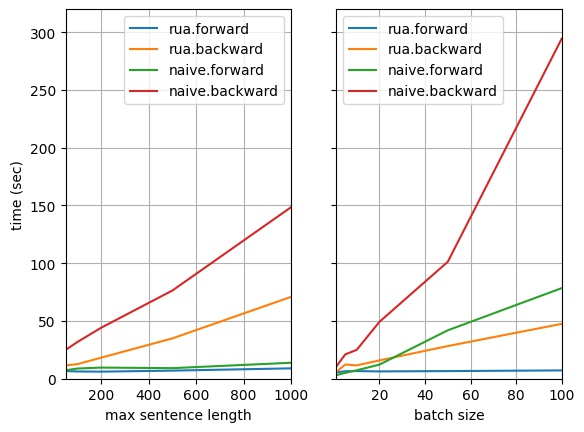
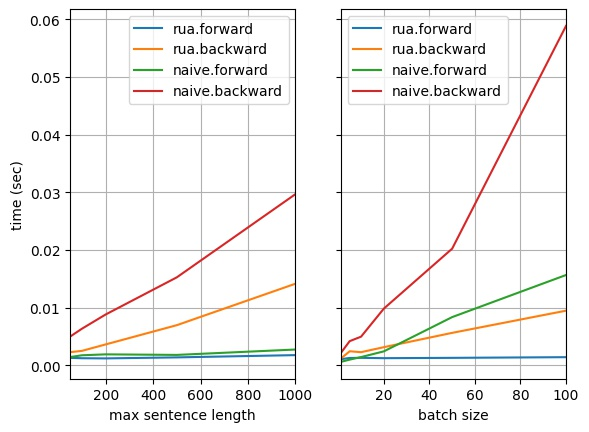
Doc: Update reverse_pack.jpg

diff --git a/benchmark/reverse_packed_sequence.py b/benchmark/reverse_packed_sequence.py
@@ -3,6 +3,7 @@ from tqdm import tqdm
 
 from benchmark.naive_indexing import naive_reverse_packed_sequence
 from benchmark.utils import Timer, gen_data
+import numpy as np
 from torchrua.indexing import reverse_packed_sequence
 
 
@@ -46,12 +47,13 @@ def reverse_pack_fn(num_epoch: int = 5000, batch_size: int = 32,
     print(f'naive.seconds => {naive_forward_timer.seconds + naive_backward_timer.seconds:.4f} '
           f'({naive_forward_timer.seconds:.4f}, {naive_backward_timer.seconds:.4f})')
 
+
 # def data1():
-#     rua_f = [6.6274, 6.2852, 6.1364, 7.0133, 8.9791]
-#     rua_b = [11.5218, 12.6473, 18.2495, 34.9357, 70.8818]
+#     rua_f = np.array([6.6274, 6.2852, 6.1364, 7.0133, 8.9791]) / 5000
+#     rua_b = np.array([11.5218, 12.6473, 18.2495, 34.9357, 70.8818]) / 5000
 #
-#     naive_f = [7.2876, 8.8388, 9.6415, 9.1631, 13.8260, ]
-#     naive_b = [24.9788, 31.8480, 44.1881, 76.4066, 148.5334]
+#     naive_f = np.array([7.2876, 8.8388, 9.6415, 9.1631, 13.8260]) / 5000
+#     naive_b = np.array([24.9788, 31.8480, 44.1881, 76.4066, 148.5334]) / 5000
 #
 #     x = [50, 100, 200, 500, 1000]
 #
@@ -59,11 +61,11 @@ def reverse_pack_fn(num_epoch: int = 5000, batch_size: int = 32,
 #
 #
 # def data2():
-#     rua_f = [5.4406, 6.5040, 6.6274, 6.3301, 6.6105, 7.1985]
-#     rua_b = [5.8177, 12.3177, 11.5218, 15.8664, 28.2674, 47.4997]
+#     rua_f = np.array([5.4406, 6.5040, 6.6274, 6.3301, 6.6105, 7.1985]) / 5000
+#     rua_b = np.array([5.8177, 12.3177, 11.5218, 15.8664, 28.2674, 47.4997]) / 5000
 #
-#     naive_f = [3.0818, 5.0671, 7.2876, 12.2371, 41.9305, 78.4146]
-#     naive_b = [10.5153, 21.0931, 24.9788, 49.2902, 101.2398, 294.3232]
+#     naive_f = np.array([3.0818, 5.0671, 7.2876, 12.2371, 41.9305, 78.4146]) / 5000
+#     naive_b = np.array([10.5153, 21.0931, 24.9788, 49.2902, 101.2398, 294.3232]) / 5000
 #
 #     x = [1, 5, 10, 20, 50, 100]
 #
@@ -80,7 +82,7 @@ def reverse_pack_fn(num_epoch: int = 5000, batch_size: int = 32,
 # ax1.plot(x, y4, label='naive.backward')
 #
 # ax1.set_xlim(50, 1000)
-# ax1.set_ylim(0, 320)
+# # ax1.set_ylim(0, 320)
 # ax1.set_xlabel('max sentence length')
 # ax1.set_ylabel('time (sec)')
 # ax1.grid()
